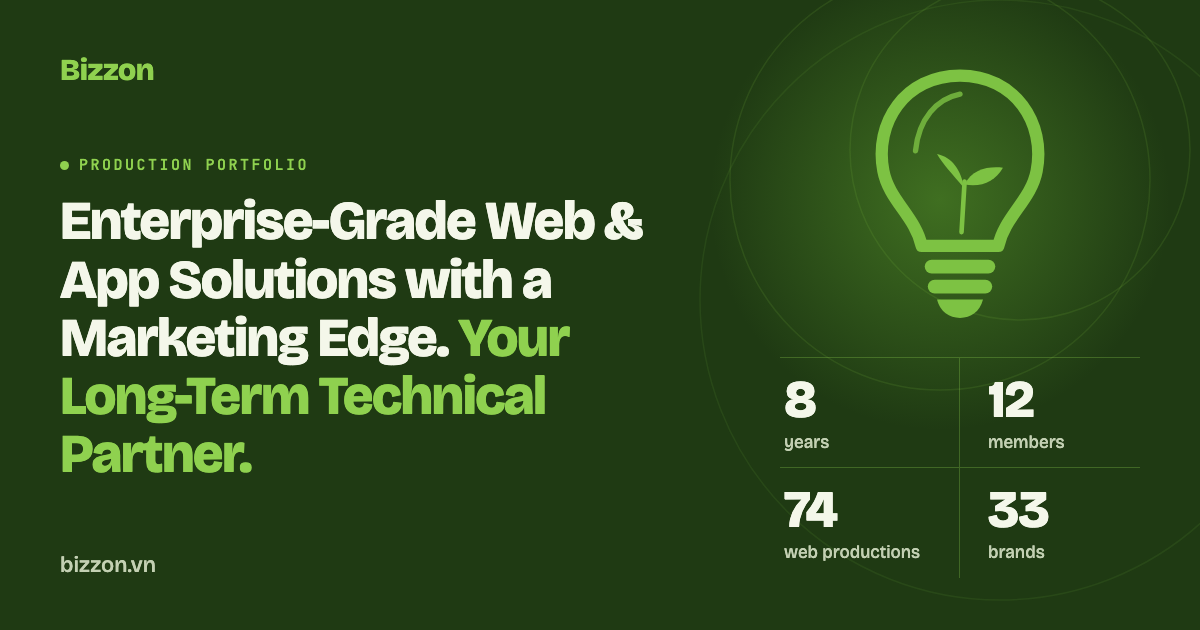
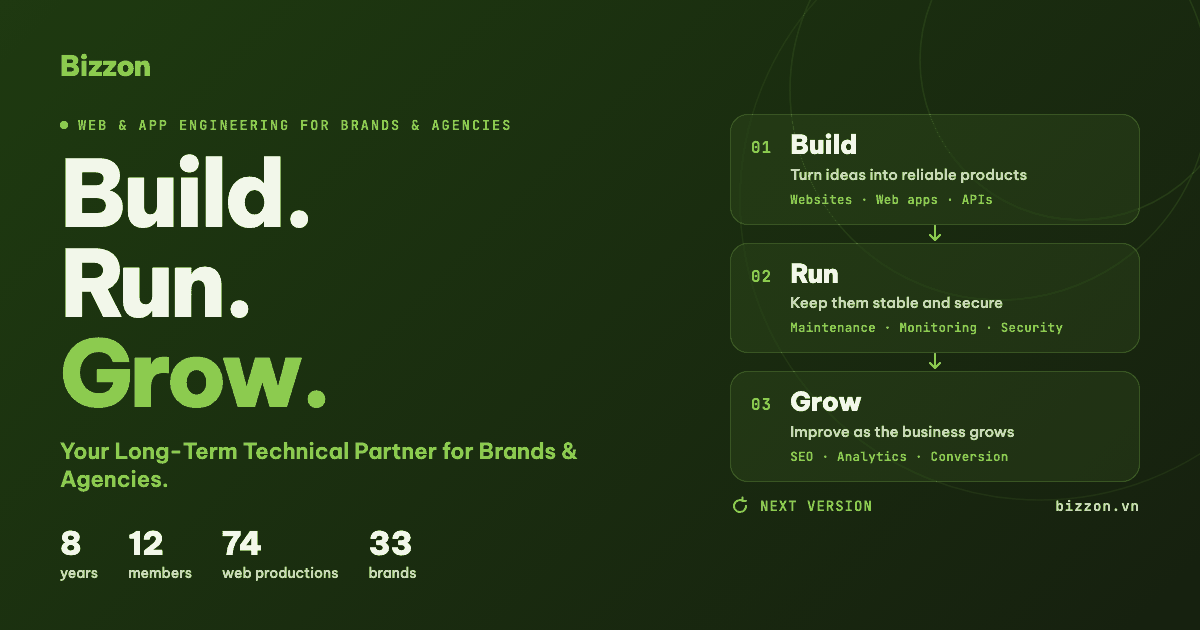
New Open Graph image for Build. Run. Grow.

diff --git a/en/projects.html b/en/projects.html
@@ -7,7 +7,7 @@
     <meta name="description" content="BizzOn has grown from a group of 2 members into a team of 12 members, offering full digital services for progressive clients who want to emerge in digital transformation & provide innovative digital experience for their customers." />
     <meta property="og:title" content="Web productions — BizzOn" />
     <meta property="og:description" content="BizzOn has grown from a group of 2 members into a team of 12 members, offering full digital services for progressive clients who want to emerge in digital transformation & provide innovative digital experience for their customers." />
-    <meta property="og:image" content="https://www.bizzon.vn/assets/img/og-image.png" />
+    <meta property="og:image" content="https://www.bizzon.vn/assets/img/og-image.png?v=2" />
     <meta property="og:image:width" content="1200" />
     <meta property="og:image:height" content="630" />
     <link rel="canonical" href="https://www.bizzon.vn/en/projects.html" />

diff --git a/vi.html b/vi.html
@@ -12,7 +12,7 @@
     <meta property="og:locale" content="vi_VN" />
     <meta property="og:title" content="BizzOn VN | Đối tác Kỹ thuật Dài hạn của bạn!" />
     <meta property="og:description" content="Đối tác kỹ thuật dài hạn của thương hiệu và agency. Kỹ thuật web &amp; app kết hợp kinh nghiệm tiếp thị số thực chiến." />
-    <meta property="og:image" content="https://www.bizzon.vn/assets/img/og-image.png" />
+    <meta property="og:image" content="https://www.bizzon.vn/assets/img/og-image.png?v=2" />
     <meta property="og:image:width" content="1200" />
     <meta property="og:image:height" content="630" />
     <meta name="twitter:card" content="summary_large_image" />

diff --git a/index.html b/index.html
@@ -11,7 +11,7 @@
     <meta property="og:site_name" content="BizzOn" />
     <meta property="og:title" content="BizzOn VN | Your Long-Term Technical Partner!" />
     <meta property="og:description" content="Your long-term technical partner for Brands &amp; Agencies. Web &amp; app engineering backed by practical digital marketing experience." />
-    <meta property="og:image" content="https://www.bizzon.vn/assets/img/og-image.png" />
+    <meta property="og:image" content="https://www.bizzon.vn/assets/img/og-image.png?v=2" />
     <meta property="og:image:width" content="1200" />
     <meta property="og:image:height" content="630" />
     <meta name="twitter:card" content="summary_large_image" />

diff --git a/du-an.html b/du-an.html
@@ -7,7 +7,7 @@
     <meta name="description" content="Hơn 50 website BizzOn đã thực hiện cho các thương hiệu và agency." />
     <meta property="og:title" content="Dự án — BizzOn" />
     <meta property="og:description" content="Hơn 50 website BizzOn đã thực hiện cho các thương hiệu và agency." />
-    <meta property="og:image" content="https://www.bizzon.vn/assets/img/og-image.png" />
+    <meta property="og:image" content="https://www.bizzon.vn/assets/img/og-image.png?v=2" />
     <meta property="og:image:width" content="1200" />
     <meta property="og:image:height" content="630" />
     <link rel="canonical" href="https://www.bizzon.vn/du-an.html" />
